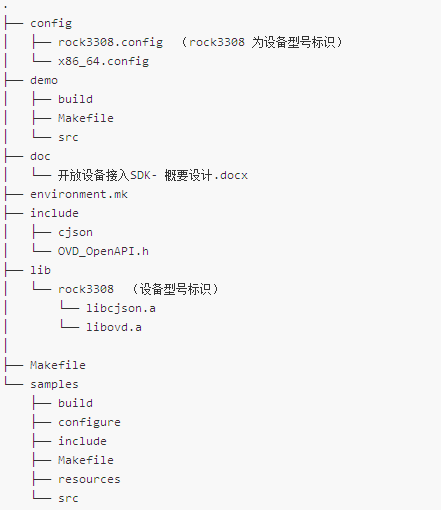
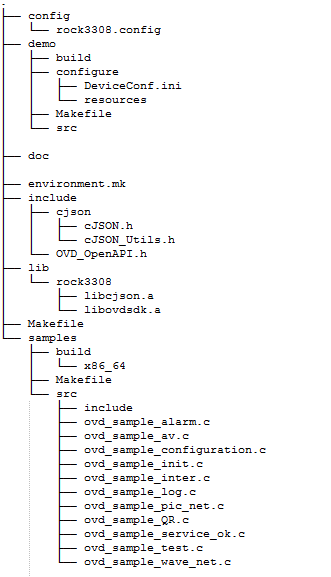
修改文档 demo、sample集成说明

Changed region(s): [[0.0, 0.0, 0.8157, 1.0], [0.3625, 0.0294, 0.7855, 0.1176], [0.5136, 0.4118, 0.5438, 0.4412]]

diff --git a/docs/SDK_guidance.md b/docs/SDK_guidance.md
@@ -88,7 +88,15 @@
 	src:   放置demo 源码文件, 演示和配置文件
 	Makefile: demo 模块的 Makefile
 	build: 放置demo模块编译生成文件
-    configure： 放置设备参数信息，模拟的音视频源、告警图片、声波/二维码配网的源信息等
+    configure： 放置设备参数信息。其中DeviceConf.ini为设备参数配置文件，包括了各resource文件的路径配置项，比如模拟的音视频源、告警图片、声波/二维码配网的源信息等。在使用demo时，若有resource文件需要替换，需要替换DeviceConf.ini文件配置项。 
+    例如示例中DeviceConf.ini配置资源文件的路径为：
+			- resource/video.h264 为模拟摄像头的视频源文件，必须为H264编码。
+			- resource/audio.aac  为模拟麦克的音频源文件，必须为AAC格式。
+			- resource/alarmPic.bmp 为模拟告警时上传的告警图片
+			- resource/snapshotPic.bmp 为OVC下发截图命令时，设备的截图源文件
+			- resource/voiceRecognize.pcm 为声波识别时模拟的麦克采集的声波源文件
+			- resource/qr.bmp   为二维码识别时模拟的摄像头采集的二维码源文件
+             
 	
 #### 2.7 samples目录
 	功能：samples模块为各自流程的模拟程序，每个子程序可独立执行。提供集成参考。
@@ -124,19 +132,19 @@
 ## 三、SDK接入集成方法
 	1. 拷贝头文件到工程目录下，并在代码中引入OVD_OpenApi.h头文件
 	2. 拷贝相应的libovd.a、libcjson.a（若设备无json库，则需要一起拷贝）到工程目录下
+	3. 集成商首先在config目录下对XXX.config文件对TOOLCHAIN_BIN_PATH, CROSS_COMPILE, CROSS_SYSROOT, CUSTOM_CFLAGS进行修改，适配自己的编译环境
+	4. 在Makefile中链接库中增加 "-l:libovdsdk.a -l:libcjson.a -lpthread -lstdc++ -lm -lrt" 
+	5. 在主目录上执行TARGET_BUILD=XXX make all ,XXX 为设备型号标识
 
 
 ## 四、demo使用流程
 ### 1 运行参数配置
-	1、若需要修改模拟的推送音视频源、模拟的告警图片、声波识别/二维码识别源等，则在configure/resource目录下，提供相应的文件。
-	2、在configure/deviceInfo.ini文件中，根据情况修改设备参数信息，和修改如上步骤1的文件目录及文件名。
+	1、若需要修改模拟的推送音视频源、模拟的告警图片、声波识别/二维码识别源等，则在configure/DeviceConf.ini 中修改所需资源文件的路径及文件名信息。
+	2、在configure/deviceInfo.ini文件中，根据情况修改设备参数信息。
 
 
 ### 2 编译链接
-	1、集成商首先在config目录下对XXX.config文件对TOOLCHAIN_BIN_PATH, CROSS_COMPILE, CROSS_SYSROOT, CUSTOM_CFLAGS进行修改，适配自己的编译环境
-	2、在主目录上执行TARGET_BUILD=XXX make all ,XXX 为设备型号标识
-	3、进入demo目录，执行make命令
-	4、编译成功后，生成的可执行文件在demo/build/XXX/bin目录下(xxx为设备编译平台名称)
+	1、在第三部分编译成功后，生成的可执行文件在demo/build/XXX/bin目录下(xxx为设备编译平台名称)
 
 ### 3 demo执行
 	1、在demo/build/XXX/bin目录下执行 ./demo，然后按照提示进行输入，引导程序继续执行
@@ -157,4 +165,20 @@
 
 【注】**若需要服务器下发命令，请连接相关服务器端配合执行**
 
+## 五、sample使用流程
+### 1 编译链接
+	1、在第三部分编译成功后，生成的可执行文件在samples/demo/build/XXX/bin目录下(xxx为设备编译平台名称)
+
+### 2 sample各个子模块执行
+	- sample_init： 演示sdk初始化动作， 执行命令为./sample_init
+	- sample_pic_net： 演示sdk二维码识别配网动作,执行命令为./sample_pic_net filepath[二维码图片路径]
+	- sample_pic_net： 演示sdk声波扫描过程， 执行命令为./sample_wave_net filepath[声波文件路径]
+	- sample_service_ok： 演示sdk连接云服务器的过程，执行命令为./sample_service_ok
+			预期结果为： 云服务器有收到心跳报文
+	- sample_configuration:  演示sdk 连接信令服务器，并与信令服务器进行交互（上传和下载设备配置，重启设备），执行命令为./sample_configuration
+			预期结果为： sdk可跟云服务器进行正常信令交互
+	- sample_alarm:  此sample演示sdk 告警流程, 执行命令为./sample_alarm
+			预期结果为：通过信令服务器触发 正常走完告警流程
+	- sample_av: 此sample演示sdk 视频推流流程，执行命令为./sample_av
+			预期结果为 通过信令服务器触发，正常走完推流流程
 

diff --git a/docs/OVD_OPEN_API.md b/docs/OVD_OPEN_API.md
@@ -782,7 +782,7 @@ APP打开相关录像文件后，设备推送相关内容
 	    OVDDEVType devType;            //设备类型，详细可见枚举类型OVDDevType，必填
 	    char OVDDeviceID[MAX_LEN_32];           //OVD设备ID，必填
 	    char OVDPassword[MAX_LEN_64];           //OVD接入密码，必填
-	    char OVDHardWareModel[MAX_LEN_64];      //OVD的硬件型号，必填
+	    char OVDHardWareModel[MAX_LEN_32];      //OVD的硬件型号，必填
 	    char OVDSystemVersion[MAX_LEN_32];      //OVD的固件版本号，必填
 	    //int  period;                    //device记录的SDK周期上报的周期，单位：秒，必填
 	    OVDNetParam netParam;           //网络信息，必填
@@ -858,7 +858,7 @@ APP打开相关录像文件后，设备推送相关内容
 	    int  SDExist;		    //0 not, 1 yes, 2 error
 	    int	 SDTotalSize;	    //总容量(M)
 	    int	 SDFreeSize;	    //空闲量
-	    char EarlyFileName[MAX_LEN_64]; //当前SD卡最早一个录像文件
+	    char EarlyFileName[MAX_LEN_24]; //当前SD卡最早一个录像文件
 	}OVDSDInfo;
 	
 	typedef enum
